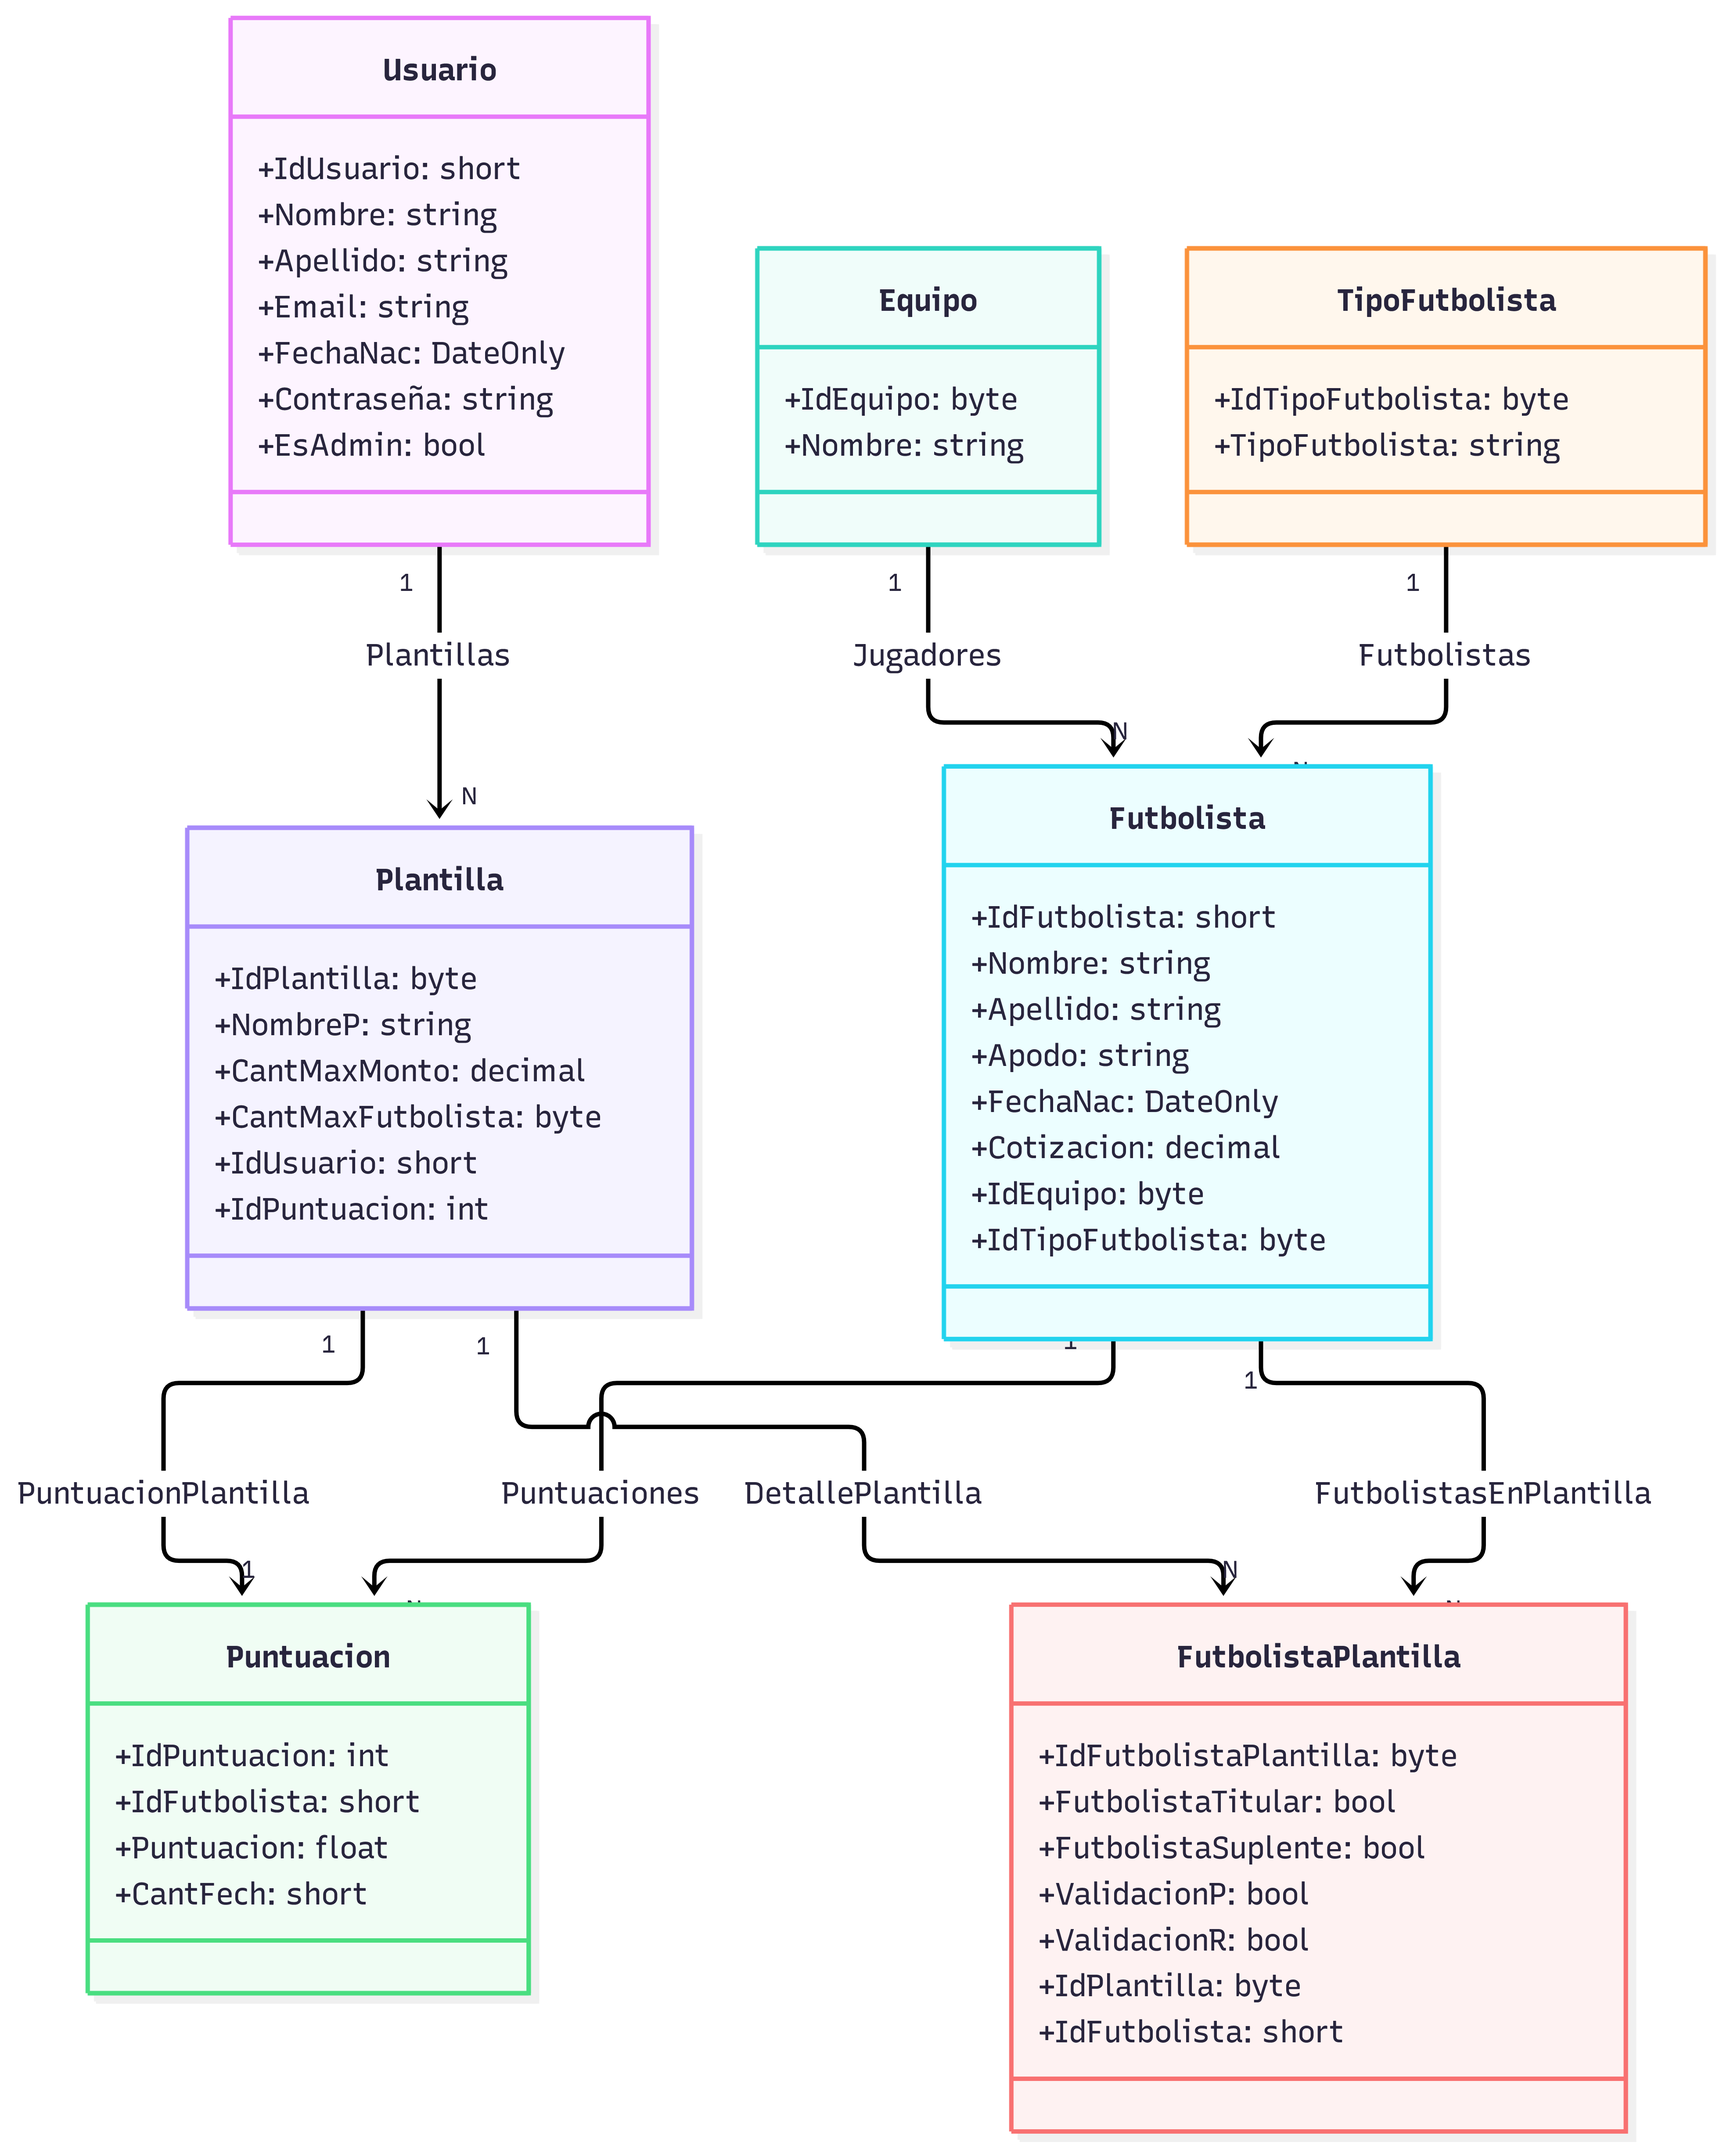
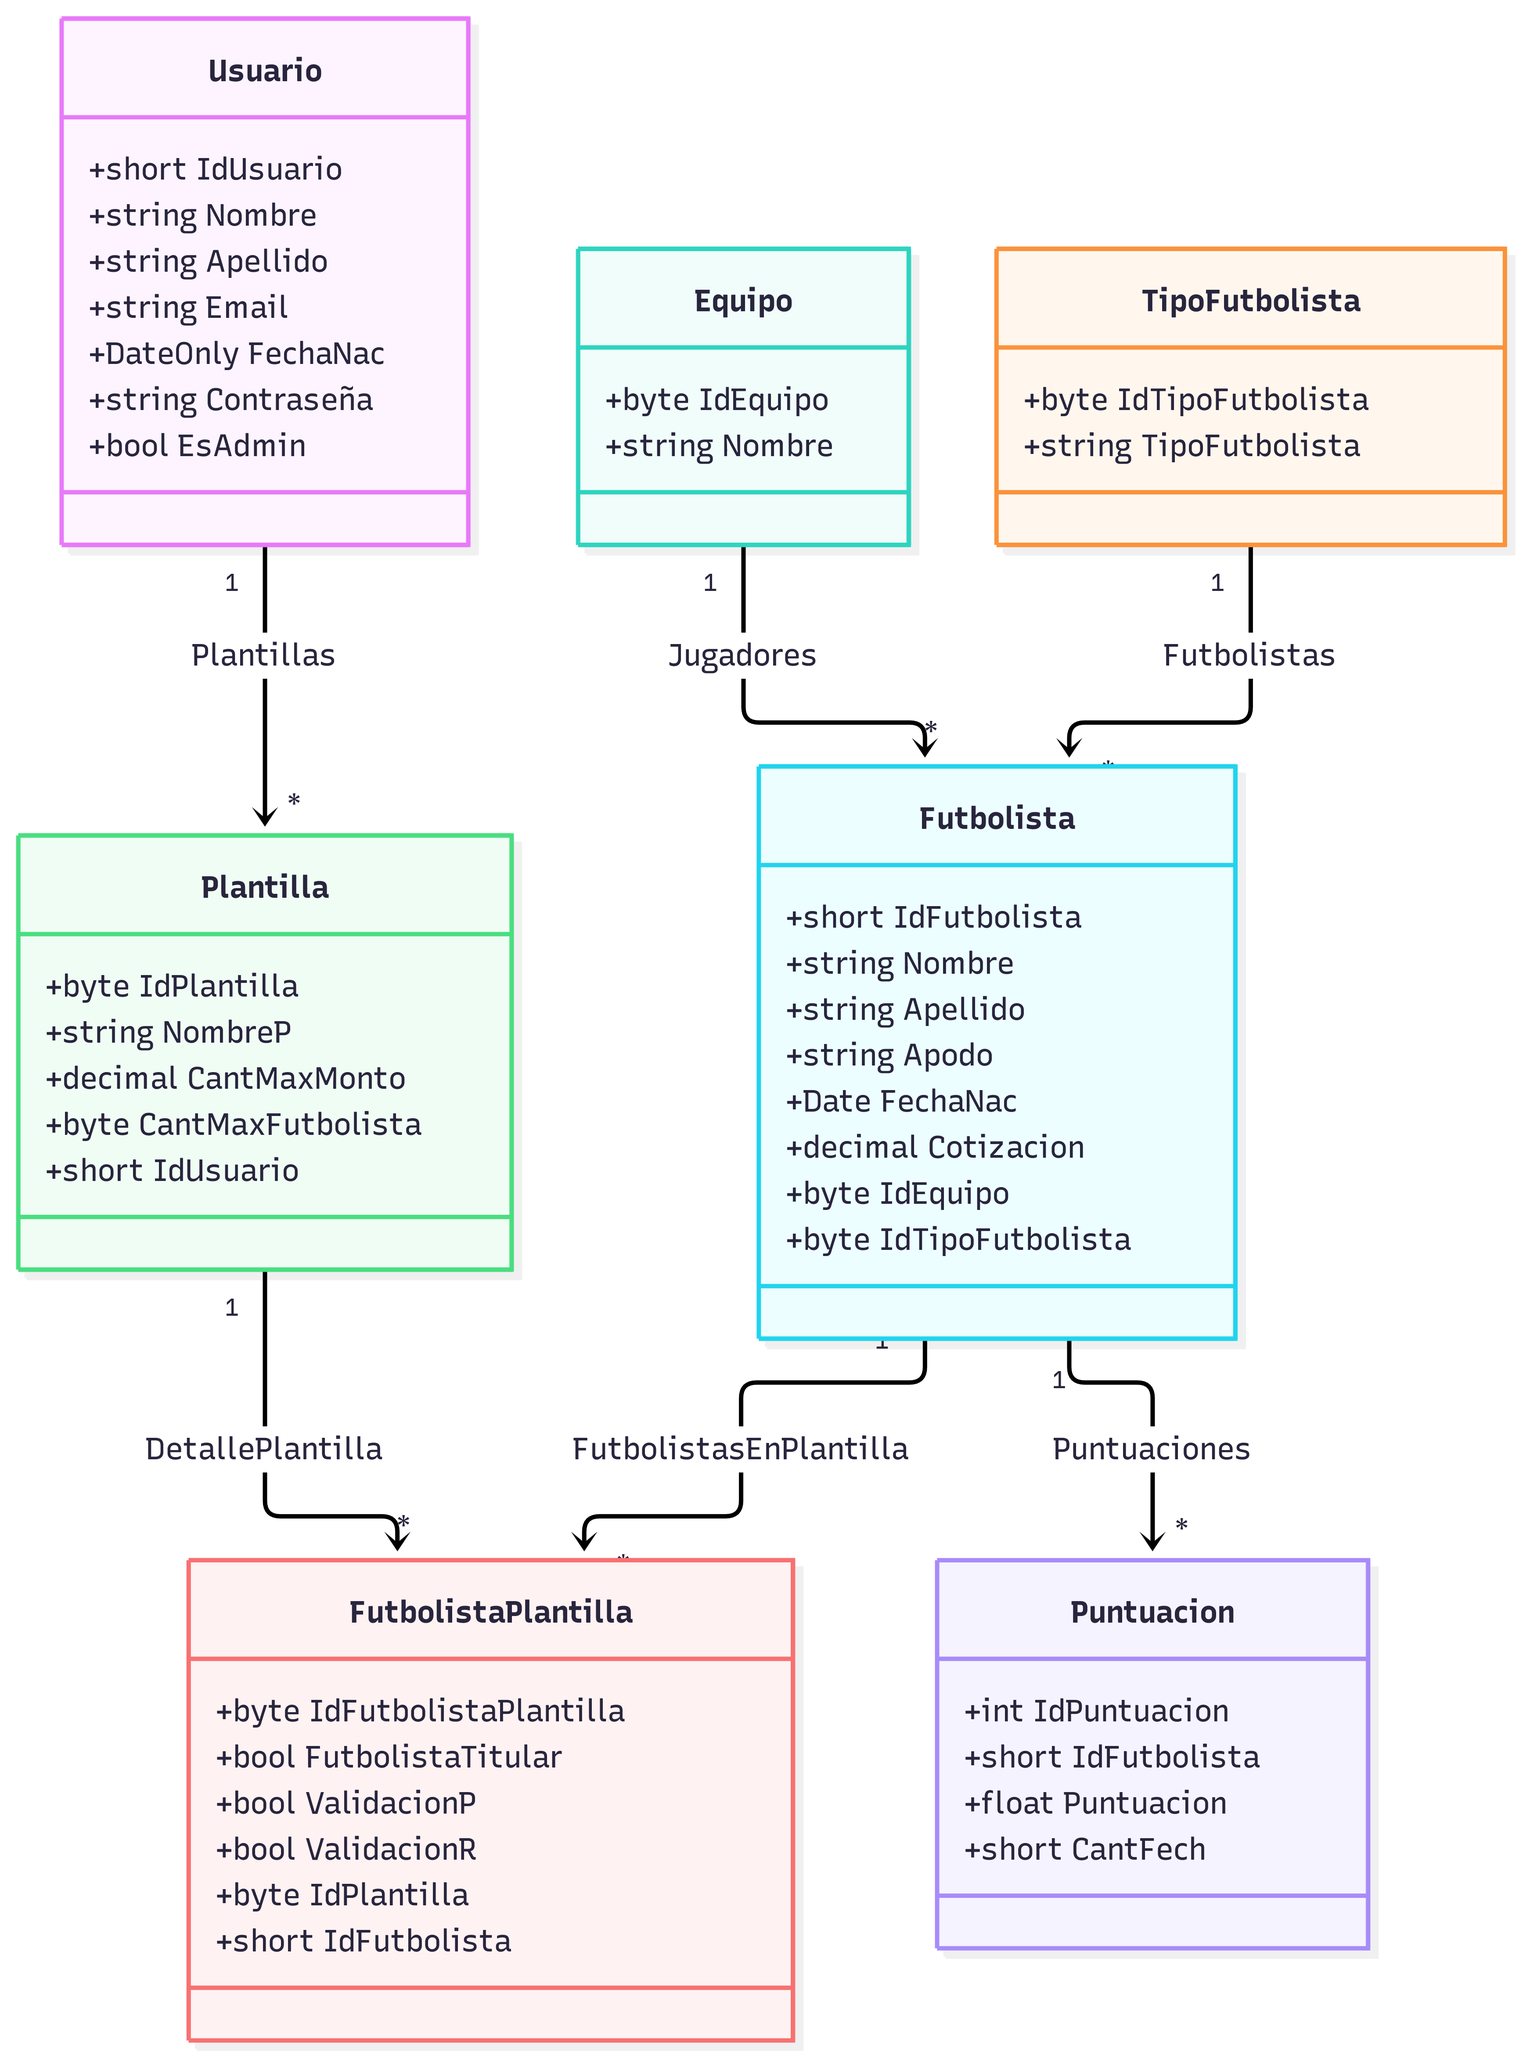
metodo de las clases agregadas

diff --git a/src/Biblio/Futbolista.cs b/src/Biblio/Futbolista.cs
@@ -1,4 +1,7 @@
 using System;
+using System.Collections.Generic;
+using System.Linq;
+
 namespace Biblio;
 
 public class Futbolista
@@ -7,10 +10,17 @@ public class Futbolista
     public string nombre { get; set; } = string.Empty;
     public string apellido { get; set; } = string.Empty;
     public string? apodo { get; set; }
-    public DateTime? fechaNac { get; set; }
+    public DateOnly? fechaNac { get; set; } // Cambiado a DateOnly
     public decimal? cotizacion { get; set; }
     public byte? idEquipo { get; set; }
     public byte? idTipoFutbolista { get; set; }
-    public List<Puntuacion>? puntuaciones { get; set; }
     
+    // Lista inicializada para evitar NullReferenceExceptions
+    public List<Puntuacion> puntuaciones { get; set; } = new List<Puntuacion>();
+
+    // Método que busca la puntuación del jugador para una fecha específica
+    public float ObtenerPuntuacionPorFecha(short cantFech)
+    {
+        return puntuaciones.FirstOrDefault(p => p.cantFech == cantFech)?.puntuacion ?? 0f;
+    }
 }

diff --git a/src/Biblio/Plantilla.cs b/src/Biblio/Plantilla.cs
@@ -1,5 +1,5 @@
-
-using Biblio.IRepo;
+using System.Collections.Generic;
+using System.Linq;
 
 namespace Biblio;
 
@@ -10,4 +10,19 @@ public class Plantilla
     public decimal? cantMaxMonto { get; set; }
     public byte? cantMaxFutbolista { get; set; }
     public short? idUsuario { get; set; }
+    // idPuntuacion ELIMINADO
+    
+    // Lista de jugadores asociados a la plantilla
+    public List<PlantillaFutbolista> detalles { get; set; } = new List<PlantillaFutbolista>();
+
+    // Método dinámico requerido en el diagrama UML
+    public float PuntajeFecha(short cantFech)
+    {
+        if (!detalles.Any()) return 0f;
+
+        // Suma los puntajes de la fecha SOLAMENTE de los jugadores titulares
+        return detalles
+            .Where(d => d.futbolistaTitular && d.futbolista != null)
+            .Sum(d => d.futbolista!.ObtenerPuntuacionPorFecha(cantFech));
+    }
 }

diff --git a/src/Biblio/Usuario.cs b/src/Biblio/Usuario.cs
@@ -1,3 +1,5 @@
+using System;
+
 namespace Biblio;
 
 public class Usuario
@@ -6,7 +8,13 @@ public class Usuario
     public string nombre { get; set; } = string.Empty;
     public string apellido { get; set; } = string.Empty;
     public string email { get; set; } = string.Empty;
-    public DateTime? fechaNac { get; set; }
+    public DateOnly? fechaNac { get; set; } // Cambiado a DateOnly
     public string contraseña { get; set; } = string.Empty;
     public bool es_admin { get; set; }
+
+    // Método para verificar si el usuario es administrador
+    public bool EsAdministrador()
+    {
+        return es_admin;
+    }
 }

diff --git a/src/Biblio/PlantillaFutbolista.cs b/src/Biblio/PlantillaFutbolista.cs
@@ -3,9 +3,13 @@ namespace Biblio;
 public class PlantillaFutbolista
 {
     public byte idFutbolistaPlantilla { get; set; }
-    public bool futbolistaTitular { get; set; }
+    public bool futbolistaTitular { get; set; } 
+    // futbolistaSuplente ELIMINADO: Si es false, ya sabemos que es suplente.
     public bool validacionP { get; set; }
     public bool validacionR { get; set; }
     public byte idPlantilla { get; set; }
     public ushort idFutbolista { get; set; }
+
+    // Propiedad de navegación vital para calcular el puntaje
+    public Futbolista? futbolista { get; set; }
 }

diff --git a/src/Biblio/TipoFutbolista.cs b/src/Biblio/TipoFutbolista.cs
@@ -2,6 +2,6 @@ namespace Biblio;
 
 public class TipoFutbolista
 {
-      public byte idTipoFutbolista { get; set; }
-      public string tipoFutbolista { get; set; } = string.Empty;
+    public byte idTipoFutbolista { get; set; }
+    public string tipoFutbolista { get; set; } = string.Empty;
 }
